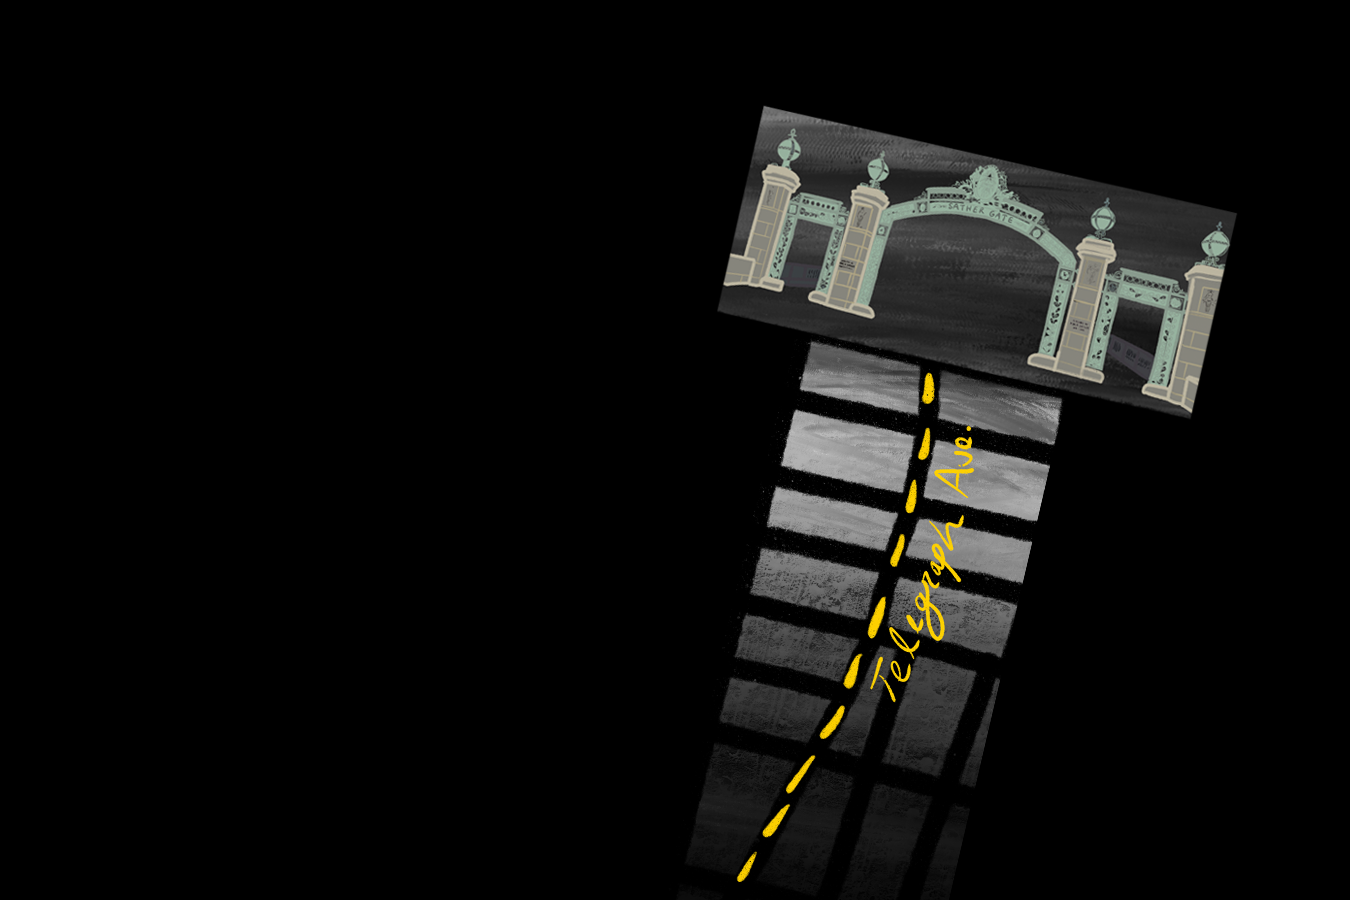
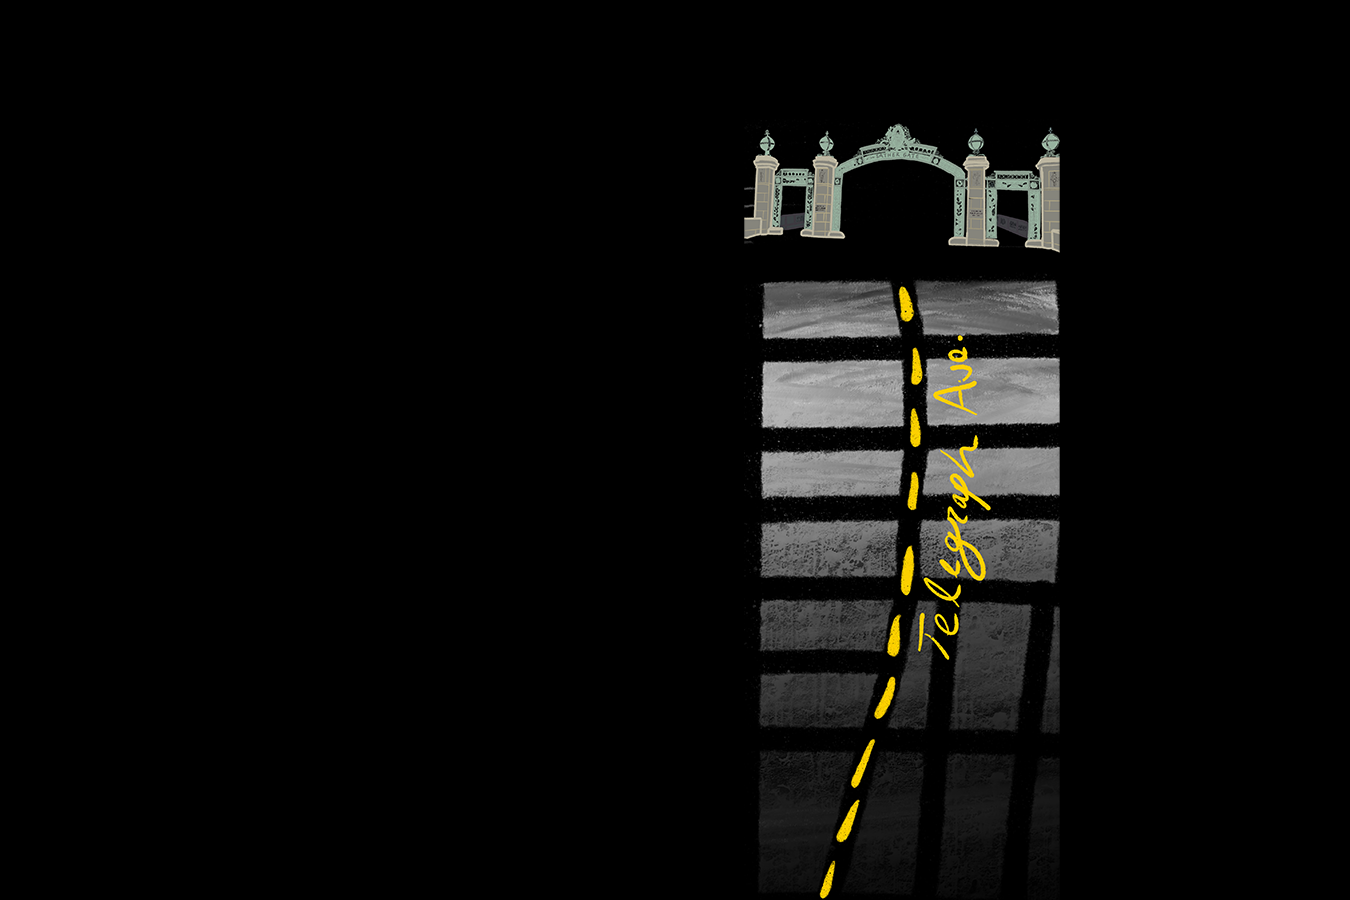
.May4Commit3

Changed region(s): [[0.4978, 0.1244, 0.9333, 0.9333], [0.5911, 0.9644, 0.6222, 0.9956], [0.5289, 0.9644, 0.56, 0.9956]]

diff --git a/src/routes/+page.svelte b/src/routes/+page.svelte
@@ -72,7 +72,7 @@
 <!--- Section 1b: Welcome to Telegraph Avenue-->
 <section class="bottom-margin"> 
     <div class="centered-telegraph-box box">
-        <img src="{base}/images/TelegraphAveSign.png" alt="Sign." style="width: auto; height: 100%; margin:auto; display:block;">
+        <img src="{base}/images/TelegraphAveSignPlain.png" alt="Sign." style="width: auto; height: 100%; margin:auto; display:block;">
     </div>
 </section>
 
@@ -98,29 +98,38 @@
 
     <div class="two-column-layout">
         <div class="color-1 box">
-            <h1>Store Changes</h1>
-            <p>Though some buildings on Telegraph Avenue have been largely unchanged, serving a series of businesses over the decades, many other buildings have been torn down and replaced. Two buildings at the corner of Haste Street and Telegraph Avenue offer an example of this dichotomy. </p>
+            <h1 class="text-center">Store Changes</h1>
+            <p>Though some buildings on Telegraph Avenue have been largely unchanged, serving a series of businesses over the decades, many other buildings have been torn down and replaced. Two buildings at the corner of Haste Street and Telegraph Avenue offer an example of this dichotomy.</p>
         </div>
+        <div class=" color-2 box"></div>
+    </div>
+
+    <div class="two-column-layout">
+
+        <div class="color-1 box">
+             <img src="{base}/images/CopyCentral-1000px.png" alt="2411 Telegraph Avenue." style="width: 100%; height: auto;">
+            </div>
 
         <div class=" color-2 box">
-            <img src="{base}/images/CopyCentral-1000px.png" alt="2411 Telegraph Avenue." style="width: 100%; height: auto;">
-            <p>At 2411 Telegraph Ave., a colorful marquee today advertises the offerings of the Copy Central inside. The same building has housed numerous businesses in the past, including Armadillo Pizza in the 1980s and, in the early 2000s, a branch of Rasputin Records specializing in videos. Decades earlier, as the building’s exterior suggests, 2411 Telegraph Ave. was the location of the Sunset Theater and then the D.K. Theater. Both went out of business, part of a greater trend of local theaters disappearing across Berkeley. </p>
+        <p>At 2411 Telegraph Ave., a colorful marquee today advertises the offerings of the Copy Central inside. The same building has housed numerous businesses in the past, including Armadillo Pizza in the 1980s and, in the early 2000s, a branch of Rasputin Records specializing in videos. Decades earlier, as the building’s exterior suggests, 2411 Telegraph Ave. was the location of the Sunset Theater and then the D.K. Theater. Both went out of business, part of a greater trend of local theaters disappearing across Berkeley. </p>
         </div>
+        
     </div>
 
     <div class="two-column-layout">
         <div class="color-1 box">
             <p> Right next door to 2411 Telegraph Ave. is 2503 Haste Street, a site of much civic consternation. The land was once covered by the Berkeley Inn, a 75-room hotel which was demolished in 1990 after suffering a series of fires. The property was an empty lot and eyesore for decades before it was finally replaced by a hulking student housing complex completed in 2020. The new building, dubbed the Enclave, was the subject of much discussion. Bland critics called it “funky” and “the ugliest building in Berkeley” while more creative ones painted an image with words. San Francisco Chronicle columnist John King wrote that the Enclave looks “as if Harry Potter and Fred Flintstone decided to build a McMansion. On acid."</p>
-            <img src="{base}/images/Telegraph-Haste-1800px.png" alt="2503 Haste Street & Amoeba Music." style="width: 100%; height: auto;">
         </div>
 
-         <div class="color-2 box"></div>
+         <div class="color-2 box">
+             <img src="{base}/images/Telegraph-Haste-1800px.png" alt="2503 Haste Street & Amoeba Music." style="width: 100%; height: auto;">
+         </div>
     </div>
-
 </section>
 
+
 <!-- Section 4: Bookstores -->
-<section class="dark-blue-tint-background">
+<section class="dark-blue-tint-background bottom-margin">
 
     <div class="two-column-layout dark-text">
         <div class="color-1 box">
@@ -130,67 +139,10 @@
         <div class="color-2 box">
             <h1> Bookstores</h1>
             <p>Throughout the 20th century, Berkeley was home to dozens of bookstores. In 1986, a guidebook listed 45 independent bookstores throughout the city, with 15 clustered within a five-block section of the Southside. Bookstores appear in the background of many historic photos of the street–and, at other times, made news themselves. </p>
-            <p> Click the arrow on the right to explore some of the historical highlights. </p>
         </div>
     </div>
 
-</section>
-
-    <div class="carousel-box bottom-margin">
-        <!-- DISABLING CAROUSEL HEADER TEXT FOR NOW
-        <h1 class="text-center">Bookstores</h1>
-        <h3 class=text-center>Flip through the history of bookstores in the Southside</h3>
-        -->
-
-        <div id="myCarousel" class="carousel slide">
-
-        <!-- Indicators --> <!-- Carousel instructions: https://www.w3schools.com/bootstrap/bootstrap_carousel.asp -->
-        <ol class="carousel-indicators">
-            <li data-bs-target="#myCarousel" data-bs-slide-to="0" class="active"></li>
-            <li data-bs-target="#myCarousel" data-bs-slide-to="1"></li>
-            <li data-bs-target="#myCarousel" data-bs-slide-to="2"></li>
-        </ol>
-
-        <!-- Wrapper for slides -->
-        <div class="carousel-inner">
-            <div class="carousel-item active">
-                <div class="carousel-caption">
-                    <h3>Slide 01</h3>
-                    <p>This is the first slide.</p>
-                </div>
-            <img src="{base}/images/jaffar-01-sm-static.png" alt="Jaffar" class="d-block w-100">
-            </div>
-
-            <div class="carousel-item">
-                <div class="carousel-caption">
-                    <h3>Slide 02</h3>
-                    <p>This is the second slide.</p>
-                </div>
-            <img src="{base}/images/young-02-sm-static.png" alt="Young" class="d-block w-100">
-            </div>
-
-            <div class="carousel-item">
-
-                <div class="carousel-caption">
-                    <h3>Slide 03</h3>
-                    <p>This is the third slide.</p>
-                </div>
-            <img src="{base}/images/jaffar-01-sm-static.png" alt="Jaffar" class="d-block w-100">
-            </div>
-        </div>
-
-        <!-- Left and right controls -->
-        <button class="carousel-control-prev" type="button" data-bs-target="#myCarousel" data-bs-slide="prev">
-            <span class="carousel-control-prev-icon" aria-hidden="true"></span>
-            <span class="visually-hidden">Previous</span>
-        </button>
-        <button class="carousel-control-next" type="button" data-bs-target="#myCarousel" data-bs-slide="next">
-            <span class="carousel-control-next-icon" aria-hidden="true"></span>
-            <span class="visually-hidden">Next</span>
-        </button>
-        </div>
-
-    </div>
+</section>  
 
 <!-- Section 5: Young's-->
 <section class="yellow-tint-background bottom-margin">
@@ -208,7 +160,9 @@
     </div>
 
     <div class="centered-text-box box">
-        <iframe width="800" height="500" src="https://www.youtube.com/embed/Q1xNUD7Zuvo?si=ArRCtVO0HRyKRQWw" title="YouTube video player" frameborder="0" allow="accelerometer; autoplay; clipboard-write; encrypted-media; gyroscope; picture-in-picture; web-share" referrerpolicy="strict-origin-when-cross-origin" allowfullscreen style="margin:auto; display:block;"></iframe>
+        <div class="responsive-video">
+            <iframe src="https://www.youtube.com/embed/Q1xNUD7Zuvo?si=ArRCtVO0HRyKRQWw" title="YouTube video player" frameborder="0" allow="accelerometer; autoplay; clipboard-write; encrypted-media; gyroscope; picture-in-picture; web-share" referrerpolicy="strict-origin-when-cross-origin" allowfullscreen></iframe>
+        </div>
     </div>
 
 </section>
@@ -226,7 +180,7 @@
         </div>
 
         <div class="color-2 box">
-            <img src="{base}/images/young-02-sm-static.png" alt="Young himself." style="width: 100%; height: auto;">
+            <img src="{base}/images/Lunaparra.png" alt="Councilmember Lunaparra." style="width: 100%; height: auto;">
         </div>
     </div>
 

diff --git a/src/app.scss b/src/app.scss
@@ -82,7 +82,7 @@ main {
 }
 
 .story-background-photo {
-  background-image: url("/images/TelegraphRoad-May3-1200px.png");
+  background-image: url("/images/background_road_may4.png");
   background-size: cover;
   background-position: center;
   background-repeat: no-repeat; 
@@ -138,11 +138,11 @@ main {
 
   h1 {
     font-size: 2.5rem;
-    color: #b6b6b6;
+    color: #ffffff;
   }
   p {
     font-size: 1.2rem;
-    color: #bababa;
+    color: #ffffff;
   }
 }
 
@@ -195,7 +195,6 @@ main {
 
 .centered-text-box {
   background-color: #457abff1; 
-  height: 70vh;
   padding: 2rem; 
   margin: 2rem auto;
     h1 {
@@ -210,6 +209,22 @@ main {
     color: white;
     font-size: 1.2rem;
   }
+}
+
+.responsive-video {
+  position: relative;
+  width: 100%;
+  padding-top: 56.25%;
+  max-width: 100%;
+}
+
+.responsive-video iframe {
+  position: absolute;
+  top: 0;
+  left: 0;
+  width: 100%;
+  height: 100%;
+  border: 0;
 }
 
 .centered-telegraph-box {
